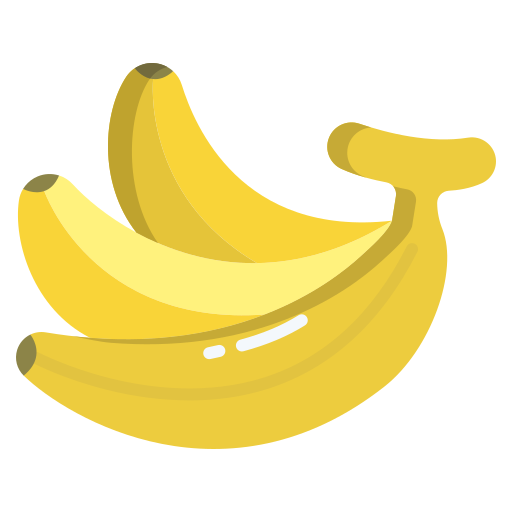
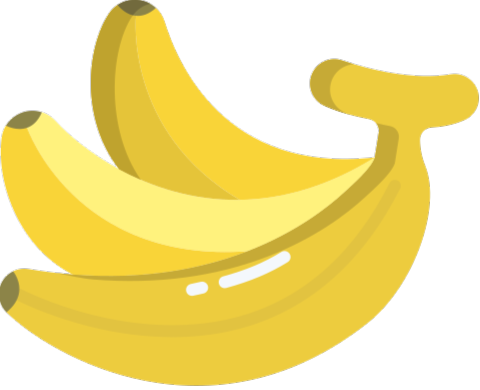
Update: Colisão do Produto com a parede e o carrinho
Ao produto colidir com a parede, o mesmo não sai para fora da janela do jogo e, ao colidir com o carrinho, é feito o gerenciamento do mesmo.

diff --git a/src/br/com/HoraDoRush/input/DragAndDrop.java b/src/br/com/HoraDoRush/input/DragAndDrop.java
@@ -1,6 +1,8 @@
 package br.com.HoraDoRush.input;
 
+import br.com.HoraDoRush.model.Carrinho;
 import br.com.HoraDoRush.model.Produtos;
+import br.com.HoraDoRush.view.CarrinhoHUD;
 import br.com.davidbuzatto.jsge.core.engine.EngineFrame;
 
 /**
@@ -11,22 +13,23 @@ public class DragAndDrop {
     // Atributos
     private boolean isArrastando = false;
     private int diferencaX, diferencaY;
+    private int controlador = 0;
     
     // Construtor
     public DragAndDrop() {}
     
-    public void arrastar( Produtos produto, EngineFrame engine ) {
+    public void arrastar( Produtos produto, EngineFrame engine, CarrinhoHUD carrinhoHUD, Carrinho carrinho ) {
         
         int mouseX = engine.getMouseX();
         int mouseY = engine.getMouseY();
         boolean segurando = engine.isMouseButtonDown( EngineFrame.MOUSE_BUTTON_LEFT );
         
-        if( segurando && !isArrastando ) {
+        int inicioX = produto.getPosX();
+        int inicioY = produto.getPosY();
+        int fimX = produto.getPosX() + produto.getLargura();
+        int fimY = produto.getPosY() + produto.getAltura();
             
-            int inicioX = produto.getPosX();
-            int inicioY = produto.getPosY();
-            int fimX = produto.getPosX() + produto.getLargura();
-            int fimY = produto.getPosY() + produto.getAltura();
+        if( segurando && !isArrastando ) {
             
             if( mouseX >= inicioX && mouseX <= fimX && mouseY >= inicioY && mouseY <= fimY ) {
                 isArrastando = true;
@@ -38,12 +41,43 @@ public class DragAndDrop {
         
         if( isArrastando ) {
             
+            controlador = 1;
             if( segurando ) {
-                produto.setPosX( mouseX - diferencaX );
-                produto.setPosY( mouseY - diferencaY );
+                int novaPosX = mouseX - diferencaX; // pega o comeco da posicao X do produto
+                int novaPosY = mouseY - diferencaY; // pega o comeco da posicao Y do produto
+                
+                if( novaPosX < 0 ) {
+                    novaPosX = 0;
+                } else if( novaPosX + produto.getLargura() > engine.getScreenWidth() ) {
+                    novaPosX = engine.getScreenWidth() - produto.getLargura();
+                }
+                
+                if( novaPosY < 0 ) {
+                    novaPosY = 0;
+                } else if( novaPosY + produto.getAltura()> engine.getScreenHeight()) {
+                    novaPosY = engine.getScreenHeight() - produto.getAltura();
+                }
+                
+                produto.setPosX( novaPosX );
+                produto.setPosY( novaPosY );
             } else {
                 isArrastando = false;
             }
+            
+        }
+        
+        if( !isArrastando ) {
+            if( controlador == 1 ) {
+                int fimCarrinhoX = carrinhoHUD.getPosX() + carrinhoHUD.getLargura();
+                int fimCarrinhoY = carrinhoHUD.getPosY() + carrinhoHUD.getAltura();
+
+                if( fimX >= carrinhoHUD.getPosX() && fimX <= fimCarrinhoX ){
+                    if( fimY >= carrinhoHUD.getPosY() && fimY <= fimCarrinhoY ) {
+                        carrinho.adicionarProduto( produto );
+                    }
+                }
+            }
+            controlador = 0;
             
         }
         

diff --git a/src/br/com/HoraDoRush/engine/HoraDoRush.java b/src/br/com/HoraDoRush/engine/HoraDoRush.java
@@ -16,7 +16,6 @@ public class HoraDoRush extends EngineFrame {
 
     // declaração de variáveis
     private int tempoRestante;
-    private int dificuldade;
     private Carrinho carrinho;
     private ListaCompras listaCompras;
     private Prateleira prateleiraHUD;
@@ -26,7 +25,6 @@ public class HoraDoRush extends EngineFrame {
     // Debug / teste
     private Produtos temp_produto;
     private int itensCorretos;
-    private int faltamItens;
     private DragAndDrop arrastar;
     
     // Construtor padrão do jogo
@@ -35,22 +33,19 @@ public class HoraDoRush extends EngineFrame {
         // cria a janela do jogo ou simulação
         super( 1500, 950, obterTitulo(dificuldade), 60, true );
         
-        this.dificuldade = dificuldade;
-        
         if( dificuldade == 1 ) {
             tempoRestante = 5*3600; // 5 minutos
             listaCompras = new ListaCompras( 5 ); // a lista tem 5 itens
-            faltamItens = 5;
+            carrinho.setItensFaltando( 5 );
         } else if( dificuldade == 2 ) {
             tempoRestante = 4*3600; // 4 minutos
             listaCompras = new ListaCompras( 6 ); // a lista tem 6 itens
-            faltamItens = 6;
+            carrinho.setItensFaltando( 6 );
         } else if( dificuldade == 3 ) {
             tempoRestante = 3*3600; // 3 minutos
             listaCompras = new ListaCompras( 7 ); // a lista tem 7 itens
-            faltamItens = 7;
+            carrinho.setItensFaltando( 7 );
         }
-        carrinho = new Carrinho();        
 
     }
     
@@ -81,6 +76,7 @@ public class HoraDoRush extends EngineFrame {
         listaHUD = new ListaComprasHUD();
         carrinhoHUD = new CarrinhoHUD();
         arrastar = new DragAndDrop();
+        carrinho = new Carrinho(); 
         
         // Debug / teste
         // Cria objeto "Banana" e coloca em primeiro lugar da lista de compras
@@ -101,7 +97,7 @@ public class HoraDoRush extends EngineFrame {
             tempoRestante -= delta;
         }
         
-        arrastar.arrastar( temp_produto, this );
+        arrastar.arrastar( temp_produto, this, carrinhoHUD, carrinho );
         
         // Debug / teste
         // Comando para debug da quantidade de itens no carrinho
@@ -152,7 +148,7 @@ public class HoraDoRush extends EngineFrame {
         String listaLabel = String.format( "Itens na lista: %d", listaCompras.getTamanho() );;
         String temLabel = String.format( "Já tem: %d itens no carrinho", carrinho.getPilha().size() );
         String temCorretosLabel = String.format( "Já tem: %d itens corretos no carrinho", itensCorretos );
-        String faltamLabel = String.format( "Faltam: %d itens", faltamItens );
+        String faltamLabel = String.format( "Faltam: %d itens", carrinho.getItensFaltando() );
         
         // Debug / teste
         

diff --git a/src/br/com/HoraDoRush/view/CarrinhoHUD.java b/src/br/com/HoraDoRush/view/CarrinhoHUD.java
@@ -8,15 +8,40 @@ import java.awt.Color;
  */
 public class CarrinhoHUD {
     
+    // Atributos
+    private int posX = 500;
+    private int posY = 500;
+    private int largura = 200;
+    private int altura = 200;
+    
     // Construtor
     public CarrinhoHUD() {}
+    
+    // Getters
+    public int getPosX() {
+        return posX;
+    }
+
+    public int getPosY() {
+        return posY;
+    }
+
+    public int getLargura() {
+        return largura;
+    }
+
+    public int getAltura() {
+        return altura;
+    }
     
     /**
      * Método para desenhar a prateleira
      */
     public void desenhar( EngineFrame engine ) {
         
-        engine.fillCircle( 200, 200, 100, Color.RED );
+        engine.fillRectangle( posX, posY, largura, altura, Color.RED );
+        // Debug / Teste
+        engine.drawText( "CARRINHO", posX + largura/3, posY + altura/2, 20, Color.BLACK );
         
     }
     

diff --git a/src/br/com/HoraDoRush/model/Produtos.java b/src/br/com/HoraDoRush/model/Produtos.java
@@ -1,9 +1,9 @@
 package br.com.HoraDoRush.model;
 
 import br.com.davidbuzatto.jsge.core.engine.EngineFrame;
+import br.com.davidbuzatto.jsge.geom.Rectangle;
 import br.com.davidbuzatto.jsge.image.Image;
 import br.com.davidbuzatto.jsge.image.ImageUtils;
-import java.awt.Color;
 import java.util.Random;
 
 /**
@@ -83,7 +83,10 @@ public class Produtos {
      */
     public void desenhar( EngineFrame engine ) {
         
-        engine.drawImage( selecionarImage(), posX, posY );
+        selecionarImage();
+        Rectangle source = new Rectangle( 0, 0, sprite.getWidth(), sprite.getHeight() ); // qual a parte da imagem quer usar
+        Rectangle dest = new Rectangle( posX, posY, largura, altura ); // tamanho da hitbox (produto)
+        engine.drawImage( sprite, source, dest );
         
     }
     

diff --git a/src/br/com/HoraDoRush/model/Carrinho.java b/src/br/com/HoraDoRush/model/Carrinho.java
@@ -9,6 +9,7 @@ public class Carrinho {
     
     // Atributos
     private Stack<Produtos> pilha;
+    private int itensFaltando;
     
     // Construtor
     public Carrinho() {
@@ -18,6 +19,22 @@ public class Carrinho {
     // Getters
     public Stack<Produtos> getPilha() {
         return pilha;
+    }
+
+    public int getItensFaltando() {
+        return itensFaltando;
+    }
+    
+    // Setters
+    public void setItensFaltando(int itensFaltando) {
+        this.itensFaltando = itensFaltando;
+    }
+    
+    /**
+     * Método para realizar a adição do produto ao Carrinho
+     */
+    public void adicionarProduto( Produtos produto ) {
+        itensFaltando--;
     }
     
 }
